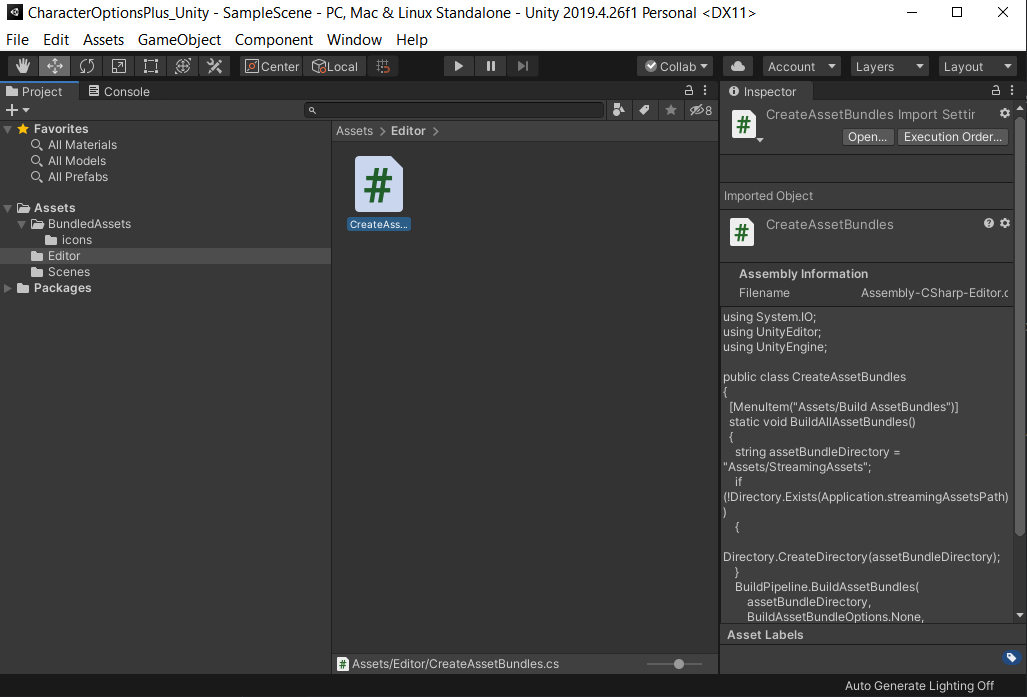
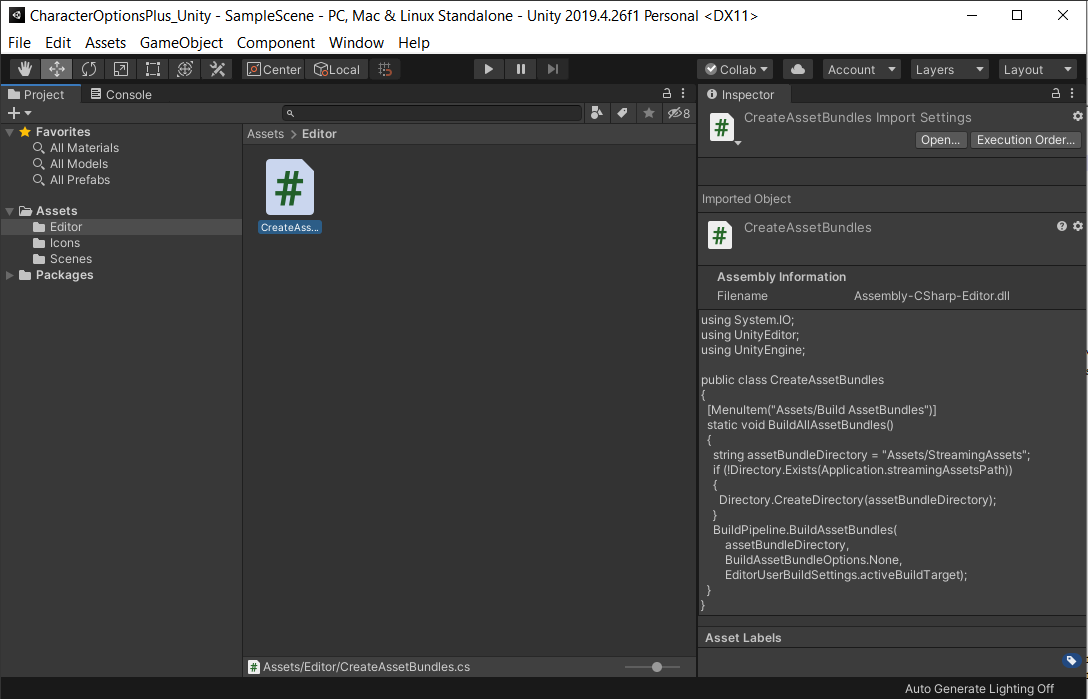
Update to simpler folder structure for shorter references

diff --git a/BlueprintCore/articles/tutorials/advanced/skalds_vigor.md b/BlueprintCore/articles/tutorials/advanced/skalds_vigor.md
@@ -178,8 +178,7 @@ It is common for mods to import PNG files directly, see [TabletopTweaks-Core's](
 1. Download [Unity](https://unity3d.com/get-unity/download/archive) version `2019.4.26f1`
 2. Create a new project with the 3D template
 3. Create a script to build an AssetBundle using [Unity's Tutorial](https://learn.unity.com/tutorial/introduction-to-asset-bundles#6028bab6edbc2a750bf5b8a4)
-4. Create a new folder in Assets called **BundledAssets**
-5. Create a new folder in BundledAssets called **icons**
+4. Create a new folder in Assets called **Icons**
 
 Your Unity project should look similar to this:
 
